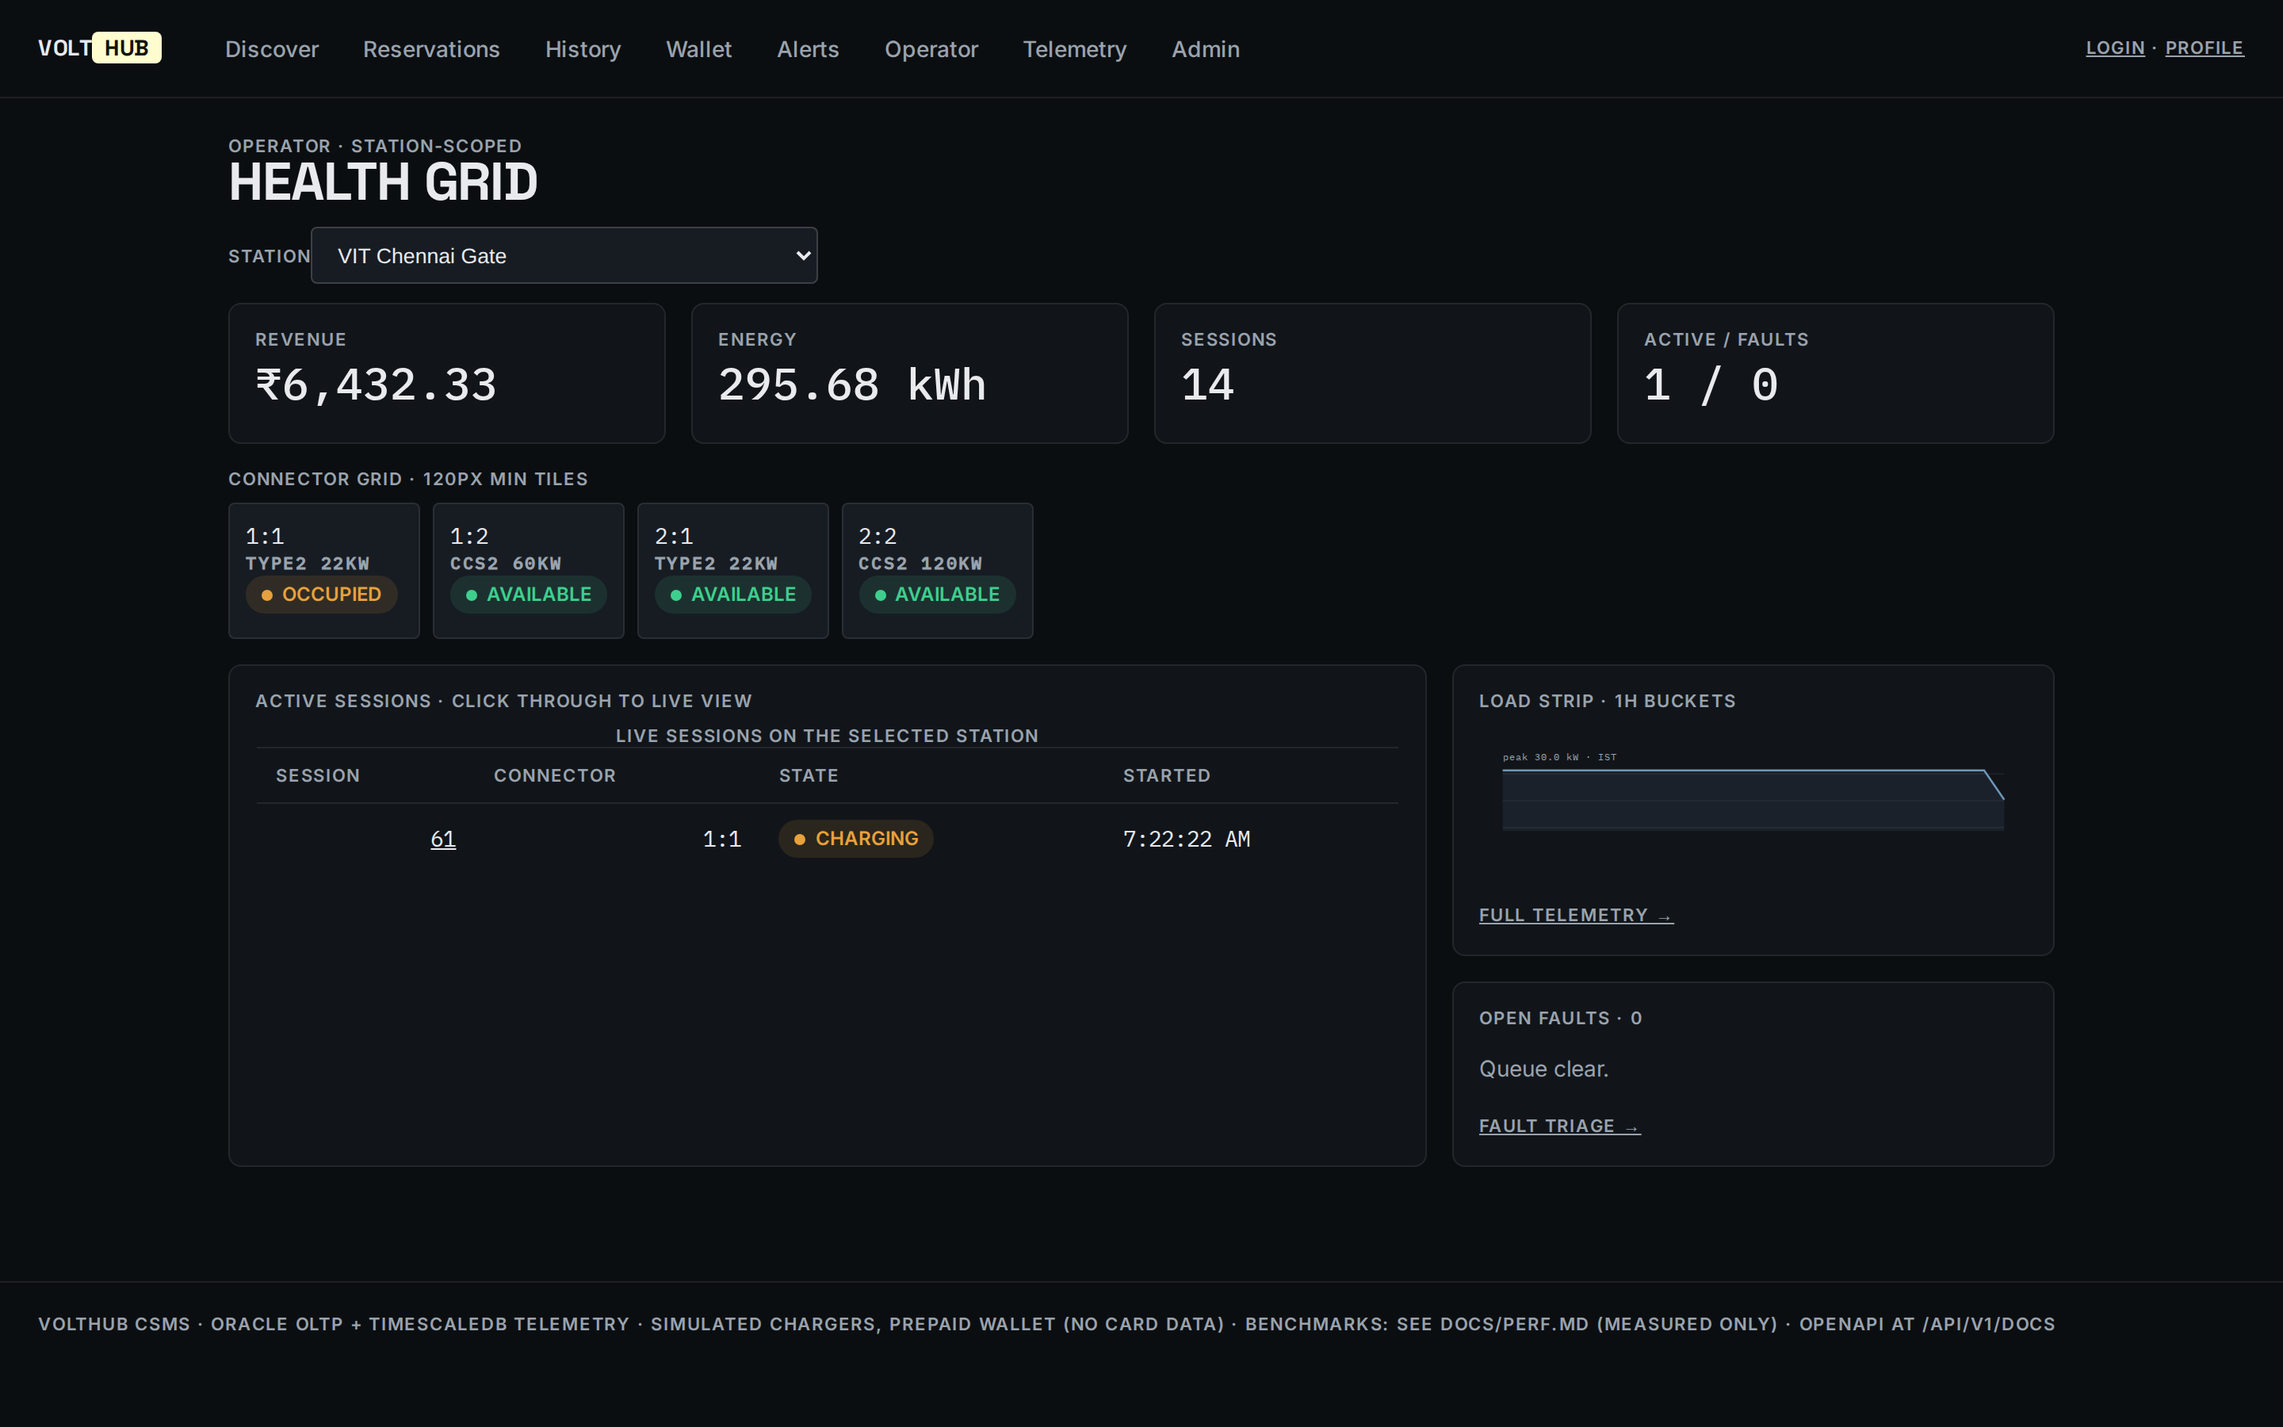
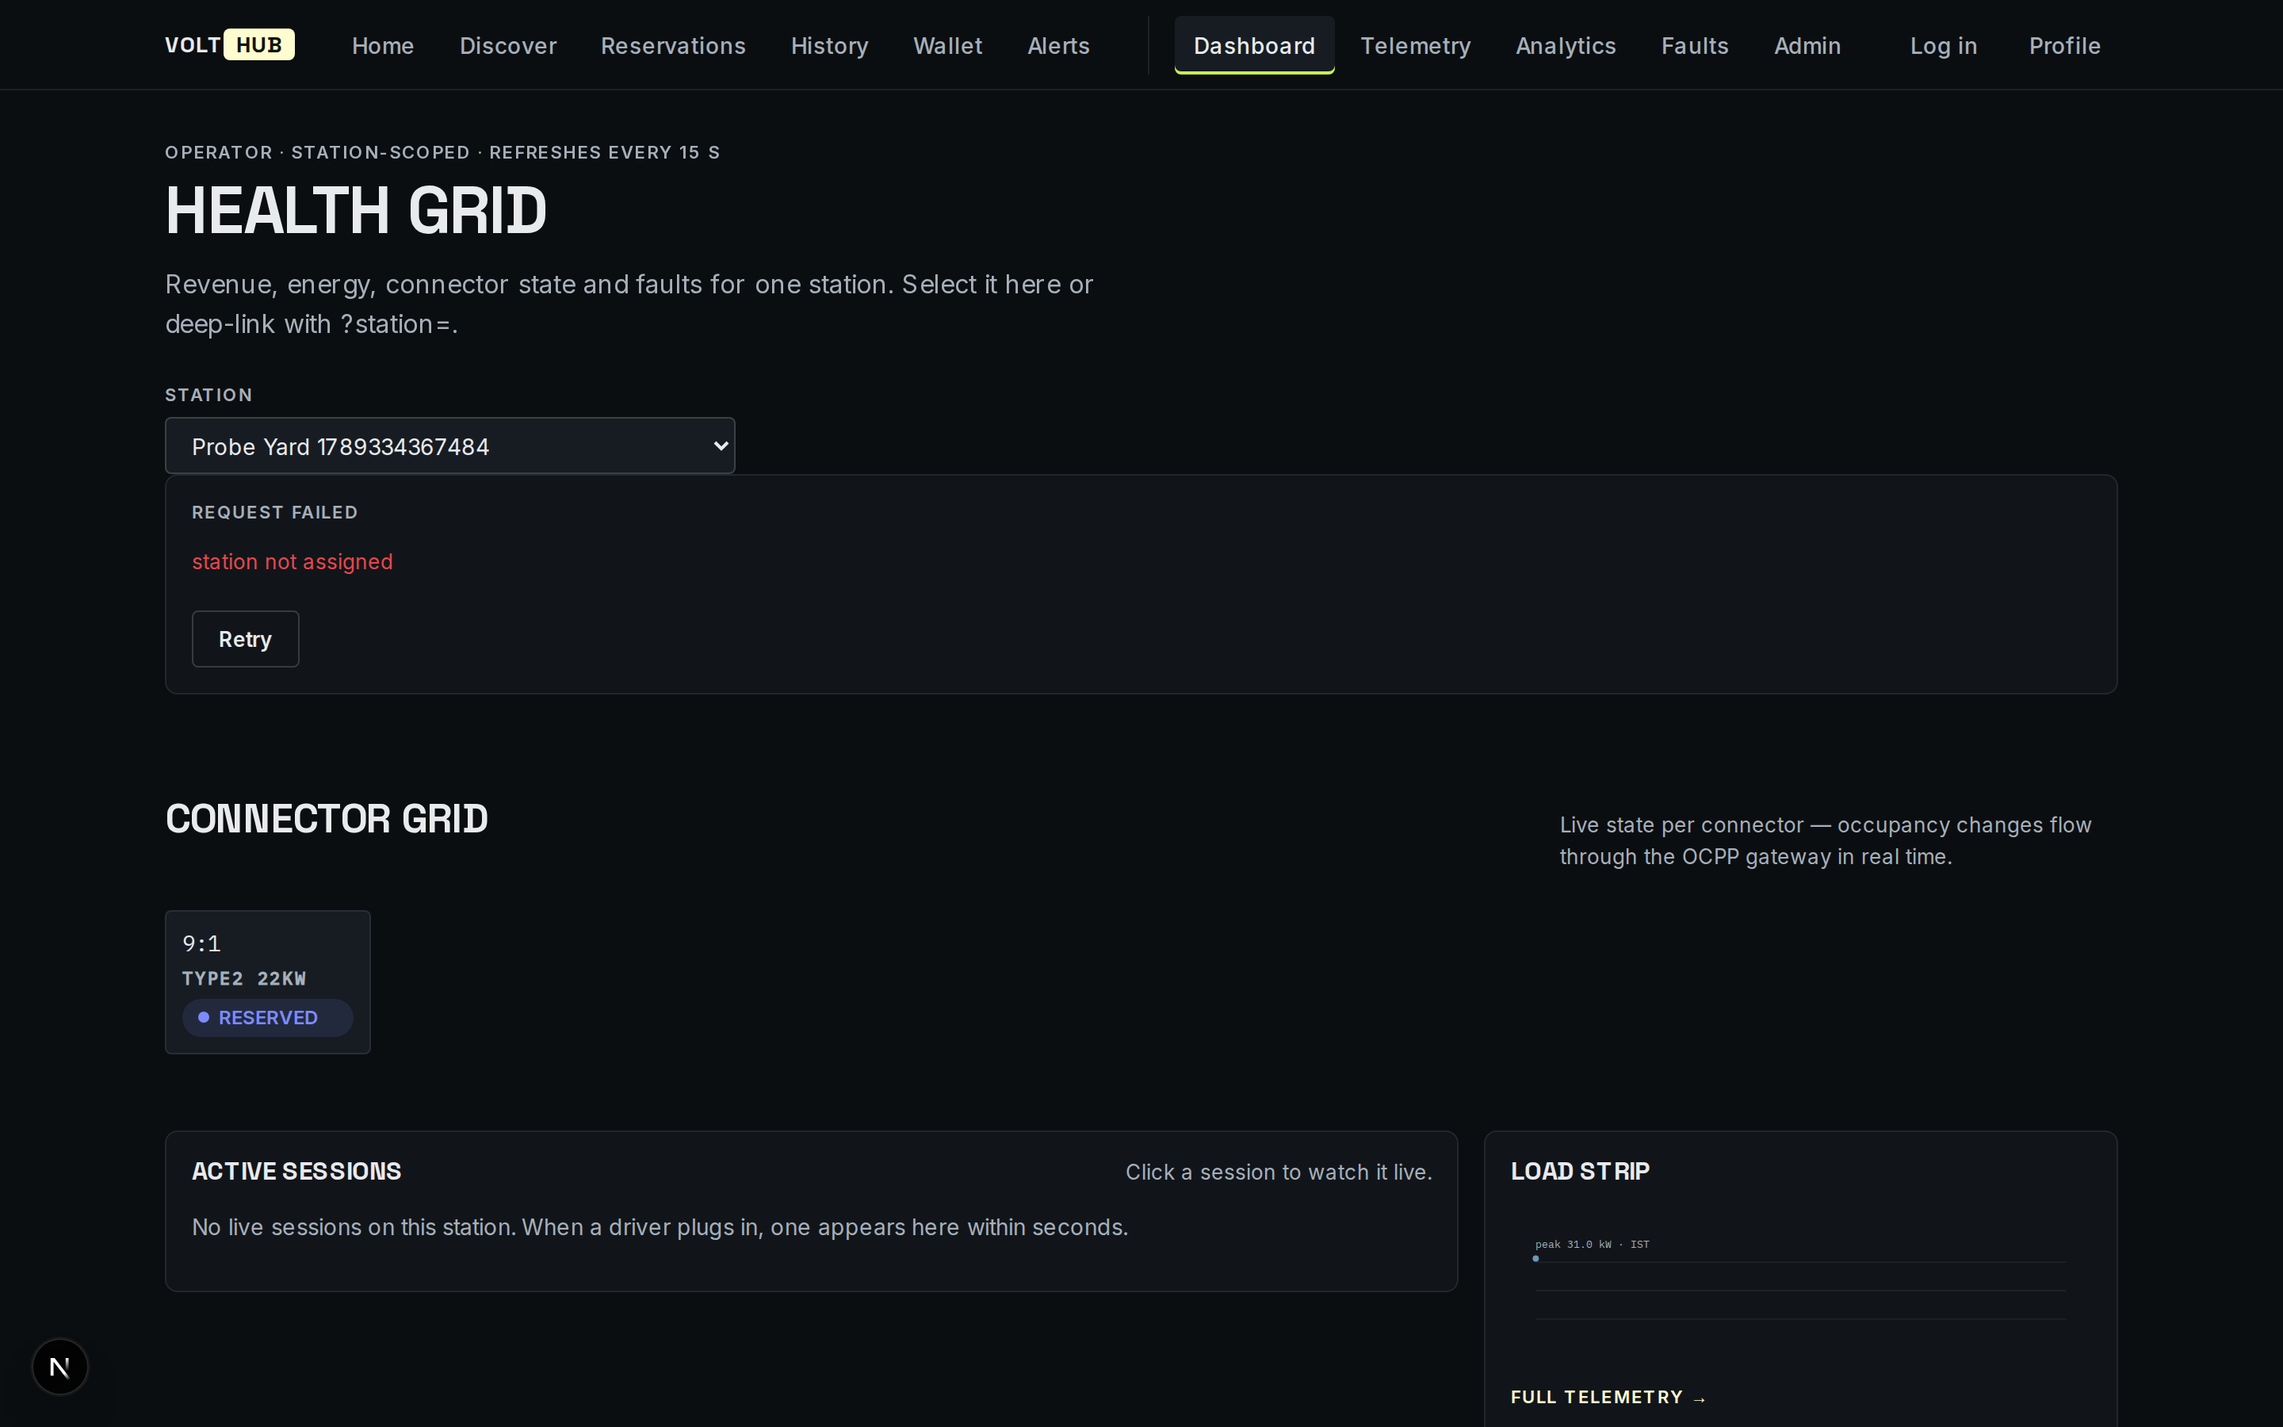
chore(release): v1.6.0 — changelog, versions, citation re-pin, fresh receipts
CHANGELOG 1.6.0 (absorbs the Unreleased FC-HCC closure entries), workspace
versions -> 1.6.0, CITATION.cff re-pinned to the merge commit, README release
pointer, worker failsafe fix + capture hardening receipts, and the README /
docs-site screenshot strip re-recorded against the Grid Current console from
the live stack. E6 re-run on the merged code: all hypotheses PASS, measured
values byte-identical to the committed receipt (timestamp-only diff reverted).

🤖 Generated with Codebuff

diff --git a/scripts/screenshots/capture.js b/scripts/screenshots/capture.js
@@ -46,6 +46,61 @@ function ocppCall(ws, action, payload) {
   });
 }
 
+// Try to boot one candidate charge point with the demo dev secret. The live feed
+// also lists stations provisioned via the admin surface, whose secrets are
+// generated (not dev-<identity>) — those get skipped here instead of failing the
+// whole capture. Resolves the open socket (with keep-alive attached) or null.
+function tryBoot(candidate) {
+  return new Promise((resolve) => {
+    const identity = candidate.ocpp_identity;
+    const ws = new WebSocket(`${WS}/ocpp/${identity}`, {
+      headers: { Authorization: `Basic ${Buffer.from(`${identity}:dev-${identity}`).toString('base64')}` },
+    });
+    let done = false;
+    const finish = (ok) => {
+      if (done) return;
+      done = true;
+      if (ok) resolve(ws);
+      else {
+        try {
+          ws.terminate();
+        } catch {}
+        resolve(null);
+      }
+    };
+    const t = setTimeout(() => finish(false), 8000);
+    ws.on('open', () => {
+      ws.send(
+        JSON.stringify([2, 'b1', 'BootNotification', { chargePointVendor: 'VoltHub', chargePointModel: 'VH-DC60' }])
+      );
+    });
+    ws.on('message', (raw) => {
+      try {
+        const m = JSON.parse(String(raw));
+        if (!Array.isArray(m)) return;
+        if (m[0] === 3 && m[1] === 'b1' && m[2]?.status === 'Accepted') {
+          clearTimeout(t);
+          finish(true);
+        }
+        if (m[0] === 4) {
+          clearTimeout(t);
+          finish(false);
+        }
+        // Keep-alive: answer any inbound CSMS CALLs.
+        if (m[0] === 2) ws.send(JSON.stringify([3, m[1], { status: 'Accepted' }]));
+      } catch {}
+    });
+    ws.on('error', () => {
+      clearTimeout(t);
+      finish(false);
+    });
+    ws.on('close', () => {
+      clearTimeout(t);
+      finish(false);
+    });
+  });
+}
+
 async function main() {
   // Cleanup: stop leftover live sessions from prior partial runs (admin bypasses ownership).
   const adminLogin = await api('/auth/login', {
@@ -74,28 +129,21 @@ async function main() {
     const { connectors } = await api(`/stations/${s.station_id}/connectors/live`);
     connectors.forEach((c) => live.push(c));
   }
-  const pick = live.find((c) => c.status === 'AVAILABLE' && c.ocpp_identity);
-  if (!pick) throw new Error('no AVAILABLE connector with identity');
+  // First live session: boot-probe candidates until one accepts (demo-secret CPs only).
+  const candidates = live.filter((c) => c.status === 'AVAILABLE' && c.ocpp_identity);
+  let ws = null;
+  let pick = null;
+  for (const cand of candidates) {
+    ws = await tryBoot(cand);
+    if (ws) {
+      pick = cand;
+      break;
+    }
+    console.log(`skipping ${cand.ocpp_identity} (boot/auth failed — generated secret?)`);
+  }
+  if (!pick) throw new Error('no AVAILABLE connector accepted BootNotification');
   const [, connNo] = pick.connector_ref.split(':').map(Number);
-  const identity = pick.ocpp_identity;
-  const secret = `dev-${identity}`;
 
-  // Real OCPP charge point session.
-  const ws = new WebSocket(`${WS}/ocpp/${identity}`, {
-    headers: { Authorization: `Basic ${Buffer.from(`${identity}:${secret}`).toString('base64')}` },
-  });
-  await new Promise((res, rej) => {
-    ws.on('open', res);
-    ws.on('error', rej);
-  });
-  // Keep-alive: answer any inbound CSMS CALLs.
-  ws.on('message', (raw) => {
-    try {
-      const m = JSON.parse(String(raw));
-      if (Array.isArray(m) && m[0] === 2) ws.send(JSON.stringify([3, m[1], { status: 'Accepted' }]));
-    } catch {}
-  });
-  await ocppCall(ws, 'BootNotification', { chargePointVendor: 'VoltHub', chargePointModel: 'VH-DC60' });
   await ocppCall(ws, 'StatusNotification', { connectorId: connNo, status: 'Available', errorCode: 'NoError' });
   await ocppCall(ws, 'Authorize', { idTag: tag });
   const { transactionId } = await ocppCall(ws, 'StartTransaction', {
@@ -121,28 +169,19 @@ async function main() {
     });
   for (let i = 1; i <= 3; i++) await meter(i);
 
-  // A second, completed+billed session so /invoices has a fresh row for this driver.
-  // Full OCPP cycle on another connector so the session is COMPLETED (billable).
   // Second session must run on a DIFFERENT charge point — two sockets sharing one OCPP identity
   // would trip the gateway duplicate-connection guard and kill the first session's socket.
-  const avail2 = live.find((c) => c.status === 'AVAILABLE' && c.ocpp_identity !== pick.ocpp_identity);
+  let ws2 = null;
+  let avail2 = null;
+  for (const cand of candidates.filter((c) => c.ocpp_identity !== pick.ocpp_identity)) {
+    ws2 = await tryBoot(cand);
+    if (ws2) {
+      avail2 = cand;
+      break;
+    }
+  }
+  if (!avail2) throw new Error('no second AVAILABLE connector accepted BootNotification');
   const [, no2] = avail2.connector_ref.split(':').map(Number);
-  const ws2 = new WebSocket(`${WS}/ocpp/${avail2.ocpp_identity}`, {
-    headers: {
-      Authorization: `Basic ${Buffer.from(`${avail2.ocpp_identity}:dev-${avail2.ocpp_identity}`).toString('base64')}`,
-    },
-  });
-  await new Promise((res, rej) => {
-    ws2.on('open', res);
-    ws2.on('error', rej);
-  });
-  ws2.on('message', (raw) => {
-    try {
-      const m = JSON.parse(String(raw));
-      if (Array.isArray(m) && m[0] === 2) ws2.send(JSON.stringify([3, m[1], { status: 'Accepted' }]));
-    } catch {}
-  });
-  await ocppCall(ws2, 'BootNotification', { chargePointVendor: 'VoltHub', chargePointModel: 'VH-DC60' });
   await ocppCall(ws2, 'Authorize', { idTag: tag });
   const started2 = await ocppCall(ws2, 'StartTransaction', {
     connectorId: no2,

diff --git a/apps/worker/src/index.js b/apps/worker/src/index.js
@@ -98,20 +98,27 @@ if (require.main === module) {
     console.log(`[worker] relay -> ${API} (2s loop)`);
     // Graceful shutdown (BUG-022 companion): SIGTERM ends the loop after the
     // current cycle — replay is idempotent (ack-after-COMMIT + dedupe), so stopping
-    // mid-batch loses nothing. A 10 s failsafe keeps the drain inside compose's
-    // stop_grace_period even if a poll hangs (HTTP is bounded at 5 s anyway).
+    // mid-batch loses nothing. A 10 s failsafe armed ONLY when draining begins keeps
+    // a hung poll inside compose's stop_grace_period (HTTP is bounded at 5 s anyway).
+    // BUG-0xx fix: the failsafe used to be armed at boot, which force-exited the
+    // worker ~10 s after every start — compose restart-looped it and each boot
+    // relayed a batch, masking the bug while bloating restart counts.
     let stop = false;
-    const failsafe = setTimeout(() => {
-      console.error('[worker] drain timeout — forcing exit');
-      process.exit(0);
-    }, 10000);
-    failsafe.unref?.();
+    const armFailsafe = () => {
+      const failsafe = setTimeout(() => {
+        console.error('[worker] drain timeout — forcing exit');
+        process.exit(0);
+      }, 10000);
+      failsafe.unref?.();
+    };
     process.on('SIGTERM', () => {
       console.log('[worker] SIGTERM — draining');
       stop = true;
+      armFailsafe();
     });
     process.on('SIGINT', () => {
       stop = true;
+      armFailsafe();
     });
     while (!stop) {
       try {

diff --git a/docs/index.html b/docs/index.html
@@ -1095,7 +1095,17 @@
             target="_blank"
             rel="noopener"
           >
+            <img
+              src="screenshots/home.png"
+              alt="Grid Current home — server-rendered editorial hero with live gateway state"
+              loading="lazy"
+            />
             <img src="screenshots/dashboard.png" alt="Operations dashboard" loading="lazy" />
+            <img
+              src="screenshots/discover.png"
+              alt="Discover — live corridor map and station availability"
+              loading="lazy"
+            />
             <div class="cap">dashboard — fleet state at a glance</div>
           </a>
           <a

diff --git a/CHANGELOG.md b/CHANGELOG.md
@@ -4,6 +4,66 @@ All notable changes. Format: Keep a Changelog, Semantic Versioning.
 
 ## [Unreleased]
 
+## [1.6.0] — 2026-09-15
+
+### Added
+
+- **ADR-0015 acceptance-envelope scheduling (E6).** The allocator consumes the
+  same acceptance curve as the certifier and the twin (`acceptanceFactor` — one
+  definition, three consumers), so plan-time and realised feasibility cannot
+  disagree. Measured (100 paired seeds/level): charging shortfall **42.6% →
+  2.36%**, deadline miss **56.6% → 15.7%**, plan-honesty gap **1,280 kWh →
+  0.011 kWh**, with bit-identical schedules below the knee (H0). Receipts in
+  `bench/results/e6-taper.json`; protocol in `docs/perf.md`.
+- **Acceptance-envelope contract test** (`apps/api/test/control-aes.js`, wired
+  into `npm test`): AES is unit-identical to the power-based allocator below
+  the knee, honest above it, and every certificate promise is deliverable by
+  an AES schedule.
+- **Grid Current web redesign** (all 17 routes): server-rendered editorial home
+  with a live `/health` island; driver/operator navigation split with a
+  keyboard-friendly mobile drawer; native `<dialog>` replaces every
+  `window.confirm`/`prompt`; new `PageHead`/`Section`/`Statband`/`EmptyState`/
+  `StationPicker` primitives; keyboard-accessible map pins and connector
+  tiles; responsive table wrappers; per-route metadata titles; expanded design
+  tokens (spacing, motion, z-index, tinted elevation) with full
+  `prefers-reduced-motion` coverage. Zero new frontend dependencies; API
+  contracts, CSP, and polling cadences unchanged. Home page is now statically
+  prerendered (fast LCP).
+- **Submission documentation sets** under `docs/`: startup product thesis,
+  research paper, patent invention disclosure, recruitment portfolio.
+
+### Fixed
+
+- **Worker drain failsafe armed at boot (restart loop).** The relay's 10 s
+  drain failsafe was armed unconditionally at process start, force-exiting the
+  worker ~10 s after every boot; compose restarted it and each boot relayed a
+  batch, masking the bug while inflating restart counts. The failsafe is now
+  armed only when a shutdown signal arrives.
+- **Control-plane rate limiting (CodeQL ×15).** The whole control surface now
+  sits behind a canonical `express-rate-limit` router barrier (30/min per
+  user, per-IP backstop, `RATE_LIMIT_OFF` honored) — every authorizing route,
+  reads included, carries an explicit recognized limiter.
+- **User-controlled allocation bounds (CodeQL ×2).** Untrusted plan/certify
+  `horizon`/`dtMin` values are clamped to the documented allow-list
+  (`model.clampHorizon`/`clampDtMin`) before they can size solver allocations;
+  benchmark direct-call contracts unchanged.
+- **Log injection in the profile probe (CodeQL ×1).** The closed-loop probe
+  logs a boolean shape verdict only — no wire-derived values reach the log.
+- **Screenshot capture hardening.** Boot-probes candidates and skips charge
+  points whose secrets were admin-generated (`dev-<identity>` no longer
+  assumed); compose `WEB_ORIGIN` now also allows the documented capture
+  console port (`:3120`).
+
+### Security
+
+- CodeQL alert count on `main`: **0** (down from 18). All 12 required checks
+  green; durable control-plane E2E passes on the compose stack.
+
+### Docs
+
+- README + docs-site screenshot strip re-recorded against the Grid Current
+  console (real stack, real OCPP session, `home.png` + `discover.png` added).
+
 ### Added (control loop closed end-to-end — the actuate/verify stages are now real)
 
 - **The plan cycle now CERTIFIES before it schedules.** `control/controller.js` resolves
@@ -179,7 +239,7 @@ property 'station' of undefined`. `POST /admin/stations` and `POST /admin/charge
   them). Formatting of `apps/api/test/run.js` restored to pass the
   `format:check` gate.
 
-### Changed (apps/web)
+### Changed (apps/web — pre-redesign accessibility/SEO pass, folded into the 1.6.0 redesign)
 
 - **Fonts self-hosted via `next/font`** (Inter, Space Grotesk 500/700,
   IBM Plex Mono 400/500 — same faces/weights as before). Removes the

diff --git a/README.md b/README.md
@@ -55,9 +55,10 @@
 </p>
 
 <p align="center">
+  <img src="docs/screenshots/home.png" alt="Grid Current home — editorial hero with live gateway state" width="46%">
   <img src="docs/screenshots/dashboard.png" alt="Operations dashboard" width="46%">
-  <img src="docs/screenshots/live-session.png" alt="Live charge session" width="46%">
   <br>
+  <img src="docs/screenshots/live-session.png" alt="Live charge session" width="46%">
   <img src="docs/screenshots/telemetry.png" alt="Telemetry load curve" width="46%">
   <img src="docs/screenshots/invoice.png" alt="Itemized invoice" width="46%">
   <br>
@@ -160,7 +161,7 @@ Demo logins: `admin@volthub.in` / `Admin@123` · `arjun@volthub.in` / `Operator@
 
 ## Status & releases
 
-- Current release: **[v1.5.0](https://github.com/humoge7502/VoltHub-CSMS/releases)** — tagged releases carry notes extracted from [`CHANGELOG.md`](CHANGELOG.md) (Keep-a-Changelog / SemVer).
+- Current release: **[v1.6.0](https://github.com/humoge7502/VoltHub-CSMS/releases)** — tagged releases carry notes extracted from [`CHANGELOG.md`](CHANGELOG.md) (Keep-a-Changelog / SemVer).
 - Engineering history is fully auditable: conventional-commit breadcrumbs (`fix(oracle): …`, `ci(e2e): …`) — including the failures and their fixes.
 - Roadmap notes (OCPP 2.0.1 migration path, scale exits): [`ARCHITECTURE.md`](ARCHITECTURE.md) · [`docs/masterplan/18-da-plans-and-roadmap.md`](docs/masterplan/18-da-plans-and-roadmap.md).
 

diff --git a/scripts/screenshots/README.md b/scripts/screenshots/README.md
@@ -37,6 +37,10 @@ Needs a Playwright browser once: `npx playwright install chromium` (uses
 
 ## Notes / gotchas (learned the hard way)
 
+- **Boot-probing:** the capture boot-probes candidate charge points with the
+  demo dev secret (`dev-<identity>`) and skips any that refuse — the live feed
+  also lists stations provisioned via the admin surface, whose secrets are
+  generated. Don't assume `pick = stations[0]` works.
 - The second demo session must run on a **different charge point** than the
   first. Two sockets under one OCPP identity trip the gateway's
   duplicate-connection guard (`OCPP 1.6J §4`), which closes the first socket —
